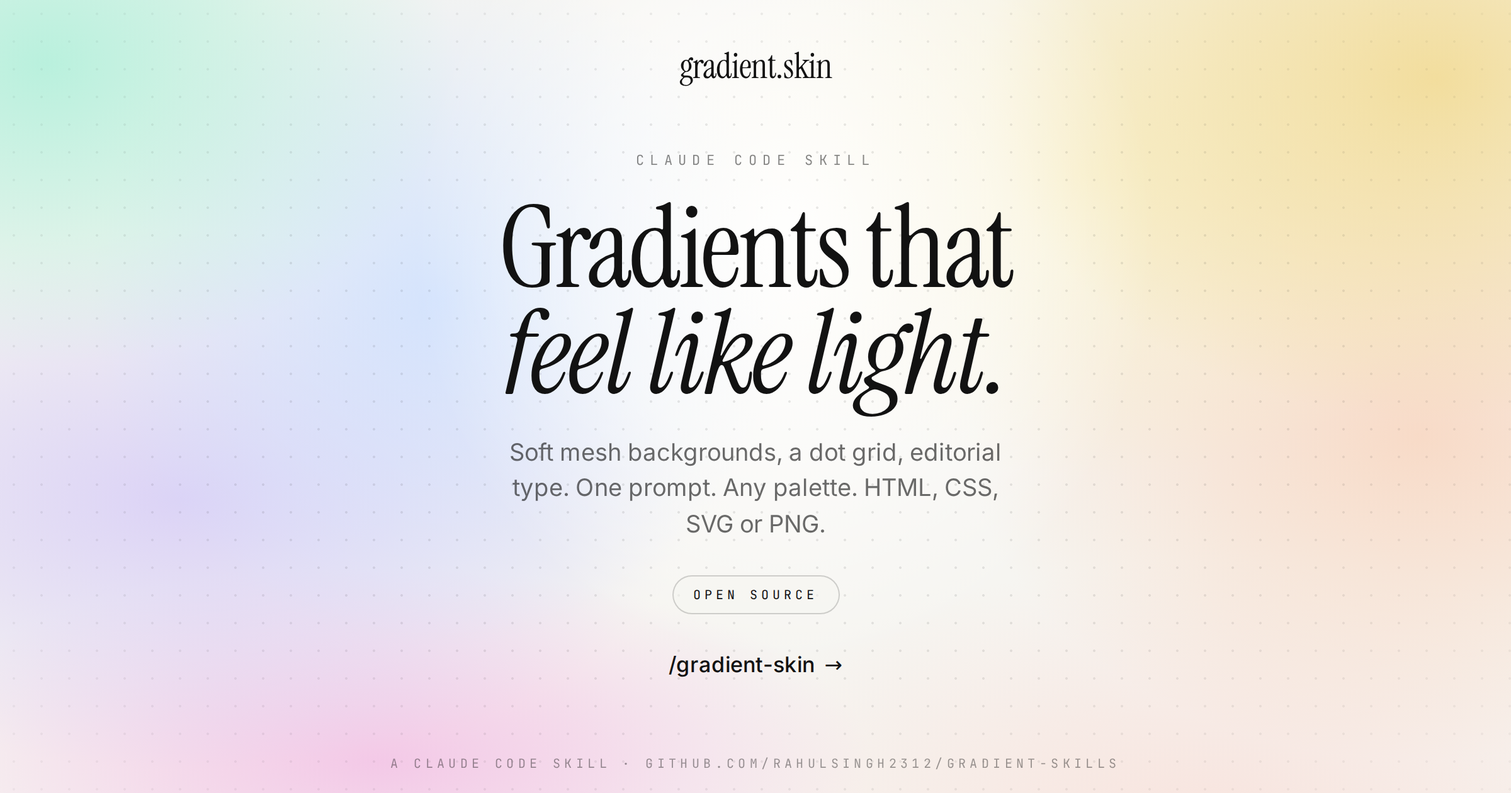
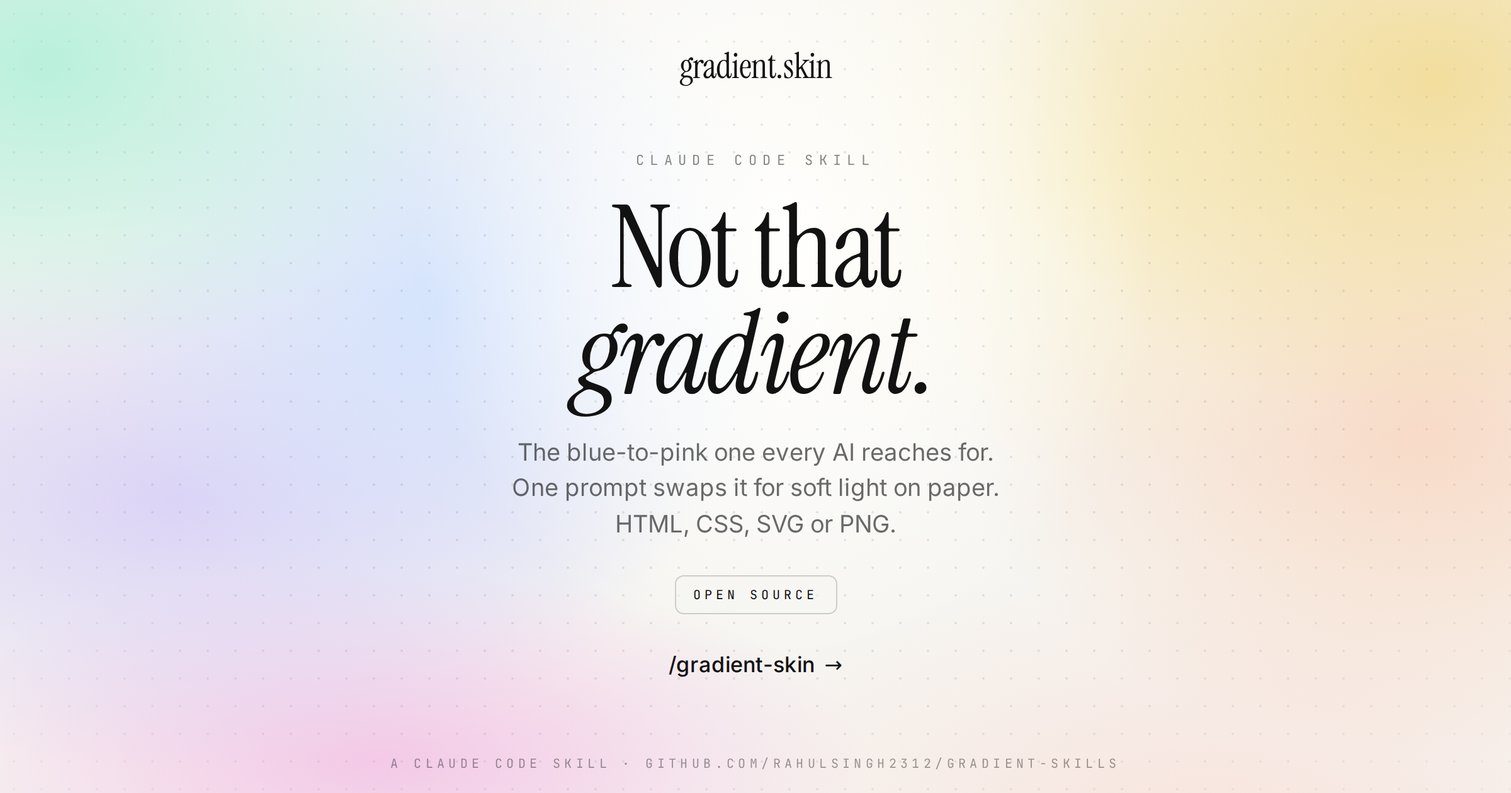
New tagline, site-hosted installer, softer badges, phone headline fix
- Headline is now "Not that gradient." everywhere: site, hero images, thumbnails, article
- curl -fsSL gradient.skin/install | sh installs the skill; /skill serves the packaged file
- Badges and pills use 7-10px corners instead of full pills
- Mobile headline capped so the bold side fits two lines
- Step 2 prompt wraps onto multiple lines; workflow deploys production from main

Claude-Session: https://claude.ai/code/session_01Pj2DqLmp4zxdSxdQUmTHv8

Changed region(s): [[0.3125, 0.2476, 0.6875, 0.5262], [0.3438, 0.5571, 0.6562, 0.681]]

diff --git a/site/index.html b/site/index.html
@@ -1,8 +1,8 @@
 <!doctype html>
 <html lang="en"><head><meta charset="utf-8"><meta name="viewport" content="width=device-width,initial-scale=1">
-<title>gradient.skin — gradients that feel like light</title>
+<title>gradient.skin — not that gradient</title>
 <meta name="description" content="A Claude Code skill that generates soft pastel mesh gradient heroes: HTML, CSS, SVG or PNG from one prompt.">
-<meta property="og:title" content="gradient.skin — gradients that feel like light"><meta property="og:description" content="A Claude Code skill. One prompt → hero page, CSS, SVG or PNG."><meta property="og:image" content="og.png"><meta name="twitter:card" content="summary_large_image">
+<meta property="og:title" content="gradient.skin — not that gradient"><meta property="og:description" content="The blue-to-pink gradient every AI reaches for, replaced in one prompt. A Claude Code skill."><meta property="og:image" content="og.png"><meta name="twitter:card" content="summary_large_image">
 <link rel="preconnect" href="https://fonts.googleapis.com"><link rel="preconnect" href="https://fonts.gstatic.com" crossorigin>
 <link href="https://fonts.googleapis.com/css2?family=Instrument+Serif:ital@0;1&family=Inter:wght@400;500;700&family=JetBrains+Mono:wght@400;500&display=swap" rel="stylesheet">
 <style>
@@ -64,7 +64,7 @@ h1{font-size:clamp(56px,7.6vw,128px);line-height:.92;letter-spacing:-.025em;marg
 .ugly h1{font-weight:700;letter-spacing:-.045em;text-shadow:0 2px 18px rgba(0,0,0,.25)} .ugly h1 em{font-style:normal}
 .sub{font-size:19px;line-height:1.5;opacity:.62;max-width:36ch;margin:0 0 30px;min-height:calc(3 * 1.5em)}
 .ugly .sub{opacity:.92}
-.cmd{display:inline-flex;align-items:center;gap:14px;max-width:100%;box-sizing:border-box;height:44px;font-size:14px;padding:0 18px;border-radius:999px;border:1px solid rgba(0,0,0,.14);background:rgba(255,255,255,.55);backdrop-filter:blur(6px);cursor:pointer;color:inherit;font-family:inherit}
+.cmd{display:inline-flex;align-items:center;gap:14px;max-width:100%;box-sizing:border-box;height:44px;font-size:14px;padding:0 18px;border-radius:10px;border:1px solid rgba(0,0,0,.14);background:rgba(255,255,255,.55);backdrop-filter:blur(6px);cursor:pointer;color:inherit;font-family:inherit}
 .cmd span{min-width:0;overflow:hidden;text-overflow:ellipsis;white-space:nowrap}
 .cmd small{flex-shrink:0;white-space:nowrap;opacity:.5;font-size:11px;letter-spacing:.2em;text-transform:uppercase}
 .cmd:hover{background:rgba(255,255,255,.8)}
@@ -72,7 +72,7 @@ h1{font-size:clamp(56px,7.6vw,128px);line-height:.92;letter-spacing:-.025em;marg
 .links{margin-top:28px;font-size:15px;font-weight:500;height:28px} .links a{color:inherit;text-decoration:none;margin:6px 12px;display:inline-block;white-space:nowrap} .links a:hover{text-decoration:underline}
 .foot{position:absolute;bottom:22px;left:0;right:0;text-align:center;font-size:10px;letter-spacing:.32em;text-transform:uppercase;opacity:.42}
 .ugly .foot{opacity:.8}
-.tag{position:absolute;z-index:4;top:22px;font-size:10px;letter-spacing:.32em;text-transform:uppercase;padding:7px 12px;border-radius:999px;pointer-events:none;transition:opacity .3s}
+.tag{position:absolute;z-index:4;top:22px;font-size:10px;letter-spacing:.32em;text-transform:uppercase;padding:7px 12px;border-radius:7px;pointer-events:none;transition:opacity .3s}
 .tag b{font-weight:inherit} .tag.l{left:22px;background:rgba(0,0,0,.28);color:#fff} .tag.r{right:22px;background:rgba(255,255,255,.6);color:#121212;backdrop-filter:blur(6px)}
 .hero[data-cut="0"] .tag.l{opacity:0} .hero[data-cut="100"] .tag.r{opacity:0}
 .grip{position:absolute;z-index:5;top:0;bottom:0;left:clamp(44px,var(--cut,92%),calc(100% - 44px));width:64px;transform:translateX(-50%);cursor:ew-resize;touch-action:pan-y;outline:none}
@@ -80,7 +80,7 @@ h1{font-size:clamp(56px,7.6vw,128px);line-height:.92;letter-spacing:-.025em;marg
 .grip i{position:absolute;top:50%;left:50%;transform:translate(-50%,-50%);width:52px;height:52px;border-radius:50%;background:#121212;color:#fff;display:flex;align-items:center;justify-content:center;font:500 18px "JetBrains Mono",monospace;letter-spacing:-.05em;box-shadow:0 10px 30px rgba(0,0,0,.3);font-style:normal;transition:transform .2s}
 .grip:hover i,.grip:focus-visible i{transform:translate(-50%,-50%) scale(1.08)}
 .grip:focus-visible i{box-shadow:0 0 0 3px #fff,0 10px 30px rgba(0,0,0,.3)}
-.grip b{position:absolute;left:50%;top:calc(50% + 40px);transform:translateX(-50%);font:500 10px "JetBrains Mono",monospace;letter-spacing:.3em;text-transform:uppercase;color:#121212;background:rgba(255,255,255,.7);padding:5px 9px;border-radius:999px;white-space:nowrap;opacity:0;transition:opacity .3s}
+.grip b{position:absolute;left:50%;top:calc(50% + 40px);transform:translateX(-50%);font:500 10px "JetBrains Mono",monospace;letter-spacing:.3em;text-transform:uppercase;color:#121212;background:rgba(255,255,255,.7);padding:5px 9px;border-radius:6px;white-space:nowrap;opacity:0;transition:opacity .3s}
 .hero.settled .grip b{opacity:1}
 @media (prefers-reduced-motion:reduce){.grip i{transition:none}}
 
@@ -266,10 +266,10 @@ h2{font-size:clamp(36px,4.5vw,56px);letter-spacing:-.02em;line-height:1;margin:0
 
 .sk-ink{color:#f2f0ea}
 .steps{display:grid;grid-template-columns:repeat(auto-fit,minmax(280px,1fr));gap:32px} .step h3{font-size:28px;margin:0 0 8px;letter-spacing:-.02em} .step p{opacity:.62;line-height:1.55;margin:0 0 12px}
-pre{background:#121212;color:#f2f0ea;border-radius:12px;padding:18px 20px;font-size:13px;line-height:1.9;overflow-x:auto;margin:0;white-space:pre}
+pre{background:#121212;color:#f2f0ea;border-radius:12px;padding:18px 20px;font-size:13px;line-height:1.9;overflow-x:auto;margin:0;white-space:pre} pre.soft{white-space:pre-wrap}
 footer{text-align:center;padding:48px 6vw 64px;font-size:12px;opacity:.5} footer a{color:inherit}
 @media (max-width:760px){
-  h1{font-size:clamp(48px,14vw,96px)} .wrap{padding:100px 6vw 80px}
+  h1{font-size:clamp(38px,11.5vw,96px)} .wrap{padding:100px 6vw 80px} .sub{font-size:17px;max-width:34ch}
   .cmd{font-size:12px;padding:0 14px;gap:10px}
   section.plain{padding:72px 6vw}
   .grid{grid-template-columns:1fr;gap:16px} .tile{aspect-ratio:16/10;border-radius:14px}
@@ -282,18 +282,18 @@ footer{text-align:center;padding:48px 6vw 64px;font-size:12px;opacity:.5} footer
   <div class="layer ugly"><div class="wrap">
     <div class="wordmark">gradient.skin</div>
     <div class="eyebrow mono">Claude Code skill</div>
-    <h1>Gradients that<br><em>feel like light.</em></h1>
-    <p class="sub">Soft mesh backgrounds, a dot grid, editorial type. One prompt. Any palette. HTML, CSS, SVG or PNG.</p>
-    <button class="cmd mono" data-copy><span>git clone rahulsingh2312/gradient-skills</span><small>copy install</small></button>
+    <h1>Not that<br><em>gradient.</em></h1>
+    <p class="sub">The blue-to-pink one every AI reaches for. One prompt swaps it for soft light on paper. HTML, CSS, SVG or PNG.</p>
+    <button class="cmd mono" data-copy><span>curl -fsSL gradient.skin/install | sh</span><small>copy</small></button>
     <div class="links"><a href="https://github.com/rahulsingh2312/gradient-skills">GitHub →</a><a href="#palettes">Palettes →</a></div>
     <div class="foot mono">Open source · MIT · gradient.skin</div>
   </div></div>
   <div class="layer good"><section class="skin"><div class="skin-blobs" aria-hidden="true"><div class="skin-blob" style="left:-16.2%;top:-24.3%;width:61.5%;height:85.5%;background:radial-gradient(closest-side, rgba(182,240,220,0.95) 0%, rgba(182,240,220,0.52) 45%, rgba(182,240,220,0.00) 100%);--d:32s;--delay:-4s;--x1:3.4%;--y1:6.3%;--x2:-5.6%;--y2:7.7%;--x3:-7.7%;--y3:-7.6%"></div><div class="skin-blob" style="left:8.3%;top:-8.1%;width:51.9%;height:97.4%;background:radial-gradient(closest-side, rgba(207,225,255,0.85) 0%, rgba(207,225,255,0.47) 45%, rgba(207,225,255,0.00) 100%);--d:27s;--delay:-20s;--x1:2.8%;--y1:-2.6%;--x2:7.6%;--y2:-7.6%;--x3:2.9%;--y3:3.1%"></div><div class="skin-blob" style="left:-17.1%;top:22.4%;width:75.9%;height:75.5%;background:radial-gradient(closest-side, rgba(215,205,247,0.85) 0%, rgba(215,205,247,0.47) 45%, rgba(215,205,247,0.00) 100%);--d:31s;--delay:-8s;--x1:-6.7%;--y1:7.6%;--x2:4.4%;--y2:4.3%;--x3:-5.2%;--y3:3.1%"></div><div class="skin-blob" style="left:-5.0%;top:57.6%;width:72.5%;height:54.4%;background:radial-gradient(closest-side, rgba(243,196,230,0.90) 0%, rgba(243,196,230,0.50) 45%, rgba(243,196,230,0.00) 100%);--d:39s;--delay:-28s;--x1:-7.0%;--y1:-3.7%;--x2:7.3%;--y2:1.7%;--x3:3.0%;--y3:-5.7%"></div><div class="skin-blob" style="left:50.8%;top:-28.4%;width:67.3%;height:95.6%;background:radial-gradient(closest-side, rgba(242,219,149,0.90) 0%, rgba(242,219,149,0.50) 45%, rgba(242,219,149,0.00) 100%);--d:30s;--delay:-18s;--x1:8.2%;--y1:-3.0%;--x2:0.1%;--y2:2.0%;--x3:0.6%;--y3:-1.7%"></div><div class="skin-blob" style="left:33.7%;top:-14.2%;width:65.5%;height:85.3%;background:radial-gradient(closest-side, rgba(249,239,198,0.80) 0%, rgba(249,239,198,0.44) 45%, rgba(249,239,198,0.00) 100%);--d:43s;--delay:-14s;--x1:6.2%;--y1:-6.7%;--x2:5.9%;--y2:-7.1%;--x3:-4.4%;--y3:-1.0%"></div><div class="skin-blob" style="left:49.7%;top:8.7%;width:67.5%;height:90.7%;background:radial-gradient(closest-side, rgba(248,214,192,0.85) 0%, rgba(248,214,192,0.47) 45%, rgba(248,214,192,0.00) 100%);--d:37s;--delay:-1s;--x1:-3.1%;--y1:-1.5%;--x2:7.9%;--y2:-1.6%;--x3:-1.3%;--y3:0.1%"></div><div class="skin-blob" style="left:34.5%;top:53.6%;width:76.9%;height:74.6%;background:radial-gradient(closest-side, rgba(248,226,220,0.90) 0%, rgba(248,226,220,0.50) 45%, rgba(248,226,220,0.00) 100%);--d:33s;--delay:-4s;--x1:6.0%;--y1:3.0%;--x2:7.9%;--y2:8.7%;--x3:-2.3%;--y3:-7.3%"></div><div class="skin-leak" style="left:25.7%;top:-22.2%;width:51.7%;height:114.0%;background:radial-gradient(closest-side, rgba(255,255,255,0.95) 0%, rgba(255,255,255,0.52) 45%, rgba(255,255,255,0.00) 100%);--d:40s;--delay:-4s;--x1:2.7%;--y1:-6.7%;--x2:5.0%;--y2:5.7%;--x3:-6.5%;--y3:2.6%"></div></div><div class="wrap">
     <div class="wordmark serif">gradient.skin</div>
     <div class="eyebrow mono">Claude Code skill</div>
-    <h1 class="serif">Gradients that<br><em>feel like light.</em></h1>
-    <p class="sub">Soft mesh backgrounds, a dot grid, editorial type. One prompt. Any palette. HTML, CSS, SVG or PNG.</p>
-    <button class="cmd mono" data-copy><span>git clone rahulsingh2312/gradient-skills</span><small>copy install</small></button>
+    <h1 class="serif">Not that<br><em>gradient.</em></h1>
+    <p class="sub">The blue-to-pink one every AI reaches for. One prompt swaps it for soft light on paper. HTML, CSS, SVG or PNG.</p>
+    <button class="cmd mono" data-copy><span>curl -fsSL gradient.skin/install | sh</span><small>copy</small></button>
     <div class="links"><a href="https://github.com/rahulsingh2312/gradient-skills">GitHub →</a><a href="#palettes">Palettes →</a></div>
     <div class="foot mono">Open source · MIT · gradient.skin</div>
   </div></section></div>
@@ -309,11 +309,12 @@ footer{text-align:center;padding:48px 6vw 64px;font-size:12px;opacity:.5} footer
 
 <section class="plain" id="install">
   <h2 class="serif">Three steps.</h2>
-  <p class="lede">A folder with a SKILL.md and a Python script. No packages, no build.</p>
+  <p class="lede">A folder with a SKILL.md and a Python script. No packages, no build. Prefer files? <a href="/skill" style="color:inherit">Download the .skill</a> or grab it on <a href="https://github.com/rahulsingh2312/gradient-skills" style="color:inherit">GitHub</a>.</p>
   <div class="steps">
-    <div class="step"><h3 class="serif">1. Install</h3><p>Drop the skill in your Claude Code skills folder.</p><pre>git clone https://github.com/rahulsingh2312/gradient-skills
-cp -r gradient-skills/gradient-skin ~/.claude/skills/gradient-skin</pre></div>
-    <div class="step"><h3 class="serif">2. Ask</h3><p>Describe the hero. Mention a palette, a brand colour, or nothing.</p><pre>/gradient-skin launch hero for Acme, brand #5B4BFF, animated, export OG + X images</pre></div>
+    <div class="step"><h3 class="serif">1. Install</h3><p>One line. Puts the skill in your Claude Code skills folder.</p><pre>curl -fsSL gradient.skin/install | sh</pre></div>
+    <div class="step"><h3 class="serif">2. Ask</h3><p>Describe the hero. Mention a palette, a brand colour, or nothing.</p><pre class="soft">/gradient-skin launch hero for Acme,
+brand #5B4BFF, animated,
+export OG + X images</pre></div>
     <div class="step"><h3 class="serif">3. Ship</h3><p>Get a responsive page, a CSS block for your codebase, an SVG, or PNGs.</p><pre>hero.html
 skin.css
 og.png
@@ -341,7 +342,7 @@ hero-x.png</pre></div>
   grip.addEventListener('pointerup',function(){ dragging=false; }); grip.addEventListener('pointercancel',function(){ dragging=false; });
   grip.addEventListener('keydown',function(e){ var d=e.key==='ArrowLeft'?-4:e.key==='ArrowRight'?4:0; if(d){ touched=true; cancelAnimationFrame(raf); set(cut+d); e.preventDefault(); } });
   // copy buttons (both layers)
-  document.querySelectorAll('[data-copy]').forEach(function(b){ b.addEventListener('click',function(){ navigator.clipboard.writeText('git clone https://github.com/rahulsingh2312/gradient-skills && cp -r gradient-skills/gradient-skin ~/.claude/skills/gradient-skin'); document.querySelectorAll('[data-copy] small').forEach(function(s){s.textContent='copied';}); }); });
+  document.querySelectorAll('[data-copy]').forEach(function(b){ b.addEventListener('click',function(){ navigator.clipboard.writeText('curl -fsSL gradient.skin/install | sh'); document.querySelectorAll('[data-copy] small').forEach(function(s){s.textContent='copied';}); }); });
 })();
 </script>
 </body></html>

diff --git a/site/build.py b/site/build.py
@@ -28,9 +28,9 @@ tiles = "".join(f'<a class="tile sk-{p}" href="#install"><span class="mono">--pa
 
 html = f'''<!doctype html>
 <html lang="en"><head><meta charset="utf-8"><meta name="viewport" content="width=device-width,initial-scale=1">
-<title>gradient.skin — gradients that feel like light</title>
+<title>gradient.skin — not that gradient</title>
 <meta name="description" content="A Claude Code skill that generates soft pastel mesh gradient heroes: HTML, CSS, SVG or PNG from one prompt.">
-<meta property="og:title" content="gradient.skin — gradients that feel like light"><meta property="og:description" content="A Claude Code skill. One prompt → hero page, CSS, SVG or PNG."><meta property="og:image" content="og.png"><meta name="twitter:card" content="summary_large_image">
+<meta property="og:title" content="gradient.skin — not that gradient"><meta property="og:description" content="The blue-to-pink gradient every AI reaches for, replaced in one prompt. A Claude Code skill."><meta property="og:image" content="og.png"><meta name="twitter:card" content="summary_large_image">
 <link rel="preconnect" href="https://fonts.googleapis.com"><link rel="preconnect" href="https://fonts.gstatic.com" crossorigin>
 <link href="https://fonts.googleapis.com/css2?family=Instrument+Serif:ital@0;1&family=Inter:wght@400;500;700&family=JetBrains+Mono:wght@400;500&display=swap" rel="stylesheet">
 <style>
@@ -53,7 +53,7 @@ h1{{font-size:clamp(56px,7.6vw,128px);line-height:.92;letter-spacing:-.025em;mar
 .ugly h1{{font-weight:700;letter-spacing:-.045em;text-shadow:0 2px 18px rgba(0,0,0,.25)}} .ugly h1 em{{font-style:normal}}
 .sub{{font-size:19px;line-height:1.5;opacity:.62;max-width:36ch;margin:0 0 30px;min-height:calc(3 * 1.5em)}}
 .ugly .sub{{opacity:.92}}
-.cmd{{display:inline-flex;align-items:center;gap:14px;max-width:100%;box-sizing:border-box;height:44px;font-size:14px;padding:0 18px;border-radius:999px;border:1px solid rgba(0,0,0,.14);background:rgba(255,255,255,.55);backdrop-filter:blur(6px);cursor:pointer;color:inherit;font-family:inherit}}
+.cmd{{display:inline-flex;align-items:center;gap:14px;max-width:100%;box-sizing:border-box;height:44px;font-size:14px;padding:0 18px;border-radius:10px;border:1px solid rgba(0,0,0,.14);background:rgba(255,255,255,.55);backdrop-filter:blur(6px);cursor:pointer;color:inherit;font-family:inherit}}
 .cmd span{{min-width:0;overflow:hidden;text-overflow:ellipsis;white-space:nowrap}}
 .cmd small{{flex-shrink:0;white-space:nowrap;opacity:.5;font-size:11px;letter-spacing:.2em;text-transform:uppercase}}
 .cmd:hover{{background:rgba(255,255,255,.8)}}
@@ -61,7 +61,7 @@ h1{{font-size:clamp(56px,7.6vw,128px);line-height:.92;letter-spacing:-.025em;mar
 .links{{margin-top:28px;font-size:15px;font-weight:500;height:28px}} .links a{{color:inherit;text-decoration:none;margin:6px 12px;display:inline-block;white-space:nowrap}} .links a:hover{{text-decoration:underline}}
 .foot{{position:absolute;bottom:22px;left:0;right:0;text-align:center;font-size:10px;letter-spacing:.32em;text-transform:uppercase;opacity:.42}}
 .ugly .foot{{opacity:.8}}
-.tag{{position:absolute;z-index:4;top:22px;font-size:10px;letter-spacing:.32em;text-transform:uppercase;padding:7px 12px;border-radius:999px;pointer-events:none;transition:opacity .3s}}
+.tag{{position:absolute;z-index:4;top:22px;font-size:10px;letter-spacing:.32em;text-transform:uppercase;padding:7px 12px;border-radius:7px;pointer-events:none;transition:opacity .3s}}
 .tag b{{font-weight:inherit}} .tag.l{{left:22px;background:rgba(0,0,0,.28);color:#fff}} .tag.r{{right:22px;background:rgba(255,255,255,.6);color:#121212;backdrop-filter:blur(6px)}}
 .hero[data-cut="0"] .tag.l{{opacity:0}} .hero[data-cut="100"] .tag.r{{opacity:0}}
 .grip{{position:absolute;z-index:5;top:0;bottom:0;left:clamp(44px,var(--cut,92%),calc(100% - 44px));width:64px;transform:translateX(-50%);cursor:ew-resize;touch-action:pan-y;outline:none}}
@@ -69,7 +69,7 @@ h1{{font-size:clamp(56px,7.6vw,128px);line-height:.92;letter-spacing:-.025em;mar
 .grip i{{position:absolute;top:50%;left:50%;transform:translate(-50%,-50%);width:52px;height:52px;border-radius:50%;background:#121212;color:#fff;display:flex;align-items:center;justify-content:center;font:500 18px "JetBrains Mono",monospace;letter-spacing:-.05em;box-shadow:0 10px 30px rgba(0,0,0,.3);font-style:normal;transition:transform .2s}}
 .grip:hover i,.grip:focus-visible i{{transform:translate(-50%,-50%) scale(1.08)}}
 .grip:focus-visible i{{box-shadow:0 0 0 3px #fff,0 10px 30px rgba(0,0,0,.3)}}
-.grip b{{position:absolute;left:50%;top:calc(50% + 40px);transform:translateX(-50%);font:500 10px "JetBrains Mono",monospace;letter-spacing:.3em;text-transform:uppercase;color:#121212;background:rgba(255,255,255,.7);padding:5px 9px;border-radius:999px;white-space:nowrap;opacity:0;transition:opacity .3s}}
+.grip b{{position:absolute;left:50%;top:calc(50% + 40px);transform:translateX(-50%);font:500 10px "JetBrains Mono",monospace;letter-spacing:.3em;text-transform:uppercase;color:#121212;background:rgba(255,255,255,.7);padding:5px 9px;border-radius:6px;white-space:nowrap;opacity:0;transition:opacity .3s}}
 .hero.settled .grip b{{opacity:1}}
 @media (prefers-reduced-motion:reduce){{.grip i{{transition:none}}}}
 
@@ -80,10 +80,10 @@ h2{{font-size:clamp(36px,4.5vw,56px);letter-spacing:-.02em;line-height:1;margin:
 {tiles_css}
 .sk-ink{{color:#f2f0ea}}
 .steps{{display:grid;grid-template-columns:repeat(auto-fit,minmax(280px,1fr));gap:32px}} .step h3{{font-size:28px;margin:0 0 8px;letter-spacing:-.02em}} .step p{{opacity:.62;line-height:1.55;margin:0 0 12px}}
-pre{{background:#121212;color:#f2f0ea;border-radius:12px;padding:18px 20px;font-size:13px;line-height:1.9;overflow-x:auto;margin:0;white-space:pre}}
+pre{{background:#121212;color:#f2f0ea;border-radius:12px;padding:18px 20px;font-size:13px;line-height:1.9;overflow-x:auto;margin:0;white-space:pre}} pre.soft{{white-space:pre-wrap}}
 footer{{text-align:center;padding:48px 6vw 64px;font-size:12px;opacity:.5}} footer a{{color:inherit}}
 @media (max-width:760px){{
-  h1{{font-size:clamp(48px,14vw,96px)}} .wrap{{padding:100px 6vw 80px}}
+  h1{{font-size:clamp(38px,11.5vw,96px)}} .wrap{{padding:100px 6vw 80px}} .sub{{font-size:17px;max-width:34ch}}
   .cmd{{font-size:12px;padding:0 14px;gap:10px}}
   section.plain{{padding:72px 6vw}}
   .grid{{grid-template-columns:1fr;gap:16px}} .tile{{aspect-ratio:16/10;border-radius:14px}}
@@ -96,18 +96,18 @@ footer{{text-align:center;padding:48px 6vw 64px;font-size:12px;opacity:.5}} foot
   <div class="layer ugly"><div class="wrap">
     <div class="wordmark">gradient.skin</div>
     <div class="eyebrow mono">Claude Code skill</div>
-    <h1>Gradients that<br><em>feel like light.</em></h1>
-    <p class="sub">Soft mesh backgrounds, a dot grid, editorial type. One prompt. Any palette. HTML, CSS, SVG or PNG.</p>
-    <button class="cmd mono" data-copy><span>git clone rahulsingh2312/gradient-skills</span><small>copy install</small></button>
+    <h1>Not that<br><em>gradient.</em></h1>
+    <p class="sub">The blue-to-pink one every AI reaches for. One prompt swaps it for soft light on paper. HTML, CSS, SVG or PNG.</p>
+    <button class="cmd mono" data-copy><span>curl -fsSL gradient.skin/install | sh</span><small>copy</small></button>
     <div class="links"><a href="{REPO}">GitHub →</a><a href="#palettes">Palettes →</a></div>
     <div class="foot mono">Open source · MIT · gradient.skin</div>
   </div></div>
   <div class="layer good"><section class="skin">{hero_blobs}<div class="wrap">
     <div class="wordmark serif">gradient.skin</div>
     <div class="eyebrow mono">Claude Code skill</div>
-    <h1 class="serif">Gradients that<br><em>feel like light.</em></h1>
-    <p class="sub">Soft mesh backgrounds, a dot grid, editorial type. One prompt. Any palette. HTML, CSS, SVG or PNG.</p>
-    <button class="cmd mono" data-copy><span>git clone rahulsingh2312/gradient-skills</span><small>copy install</small></button>
+    <h1 class="serif">Not that<br><em>gradient.</em></h1>
+    <p class="sub">The blue-to-pink one every AI reaches for. One prompt swaps it for soft light on paper. HTML, CSS, SVG or PNG.</p>
+    <button class="cmd mono" data-copy><span>curl -fsSL gradient.skin/install | sh</span><small>copy</small></button>
     <div class="links"><a href="{REPO}">GitHub →</a><a href="#palettes">Palettes →</a></div>
     <div class="foot mono">Open source · MIT · gradient.skin</div>
   </div></section></div>
@@ -123,11 +123,12 @@ footer{{text-align:center;padding:48px 6vw 64px;font-size:12px;opacity:.5}} foot
 
 <section class="plain" id="install">
   <h2 class="serif">Three steps.</h2>
-  <p class="lede">A folder with a SKILL.md and a Python script. No packages, no build.</p>
+  <p class="lede">A folder with a SKILL.md and a Python script. No packages, no build. Prefer files? <a href="/skill" style="color:inherit">Download the .skill</a> or grab it on <a href="{REPO}" style="color:inherit">GitHub</a>.</p>
   <div class="steps">
-    <div class="step"><h3 class="serif">1. Install</h3><p>Drop the skill in your Claude Code skills folder.</p><pre>git clone {REPO}
-cp -r gradient-skills/gradient-skin ~/.claude/skills/gradient-skin</pre></div>
-    <div class="step"><h3 class="serif">2. Ask</h3><p>Describe the hero. Mention a palette, a brand colour, or nothing.</p><pre>/gradient-skin launch hero for Acme, brand #5B4BFF, animated, export OG + X images</pre></div>
+    <div class="step"><h3 class="serif">1. Install</h3><p>One line. Puts the skill in your Claude Code skills folder.</p><pre>curl -fsSL gradient.skin/install | sh</pre></div>
+    <div class="step"><h3 class="serif">2. Ask</h3><p>Describe the hero. Mention a palette, a brand colour, or nothing.</p><pre class="soft">/gradient-skin launch hero for Acme,
+brand #5B4BFF, animated,
+export OG + X images</pre></div>
     <div class="step"><h3 class="serif">3. Ship</h3><p>Get a responsive page, a CSS block for your codebase, an SVG, or PNGs.</p><pre>hero.html
 skin.css
 og.png
@@ -155,9 +156,12 @@ hero-x.png</pre></div>
   grip.addEventListener('pointerup',function(){{ dragging=false; }}); grip.addEventListener('pointercancel',function(){{ dragging=false; }});
   grip.addEventListener('keydown',function(e){{ var d=e.key==='ArrowLeft'?-4:e.key==='ArrowRight'?4:0; if(d){{ touched=true; cancelAnimationFrame(raf); set(cut+d); e.preventDefault(); }} }});
   // copy buttons (both layers)
-  document.querySelectorAll('[data-copy]').forEach(function(b){{ b.addEventListener('click',function(){{ navigator.clipboard.writeText('git clone {REPO} && cp -r gradient-skills/gradient-skin ~/.claude/skills/gradient-skin'); document.querySelectorAll('[data-copy] small').forEach(function(s){{s.textContent='copied';}}); }}); }});
+  document.querySelectorAll('[data-copy]').forEach(function(b){{ b.addEventListener('click',function(){{ navigator.clipboard.writeText('curl -fsSL gradient.skin/install | sh'); document.querySelectorAll('[data-copy] small').forEach(function(s){{s.textContent='copied';}}); }}); }});
 }})();
 </script>
 </body></html>'''
 open(os.path.join(HERE, "index.html"), "w").write(html)
+import shutil
+src = os.path.join(HERE, "..", "gradient-skin.skill")
+if os.path.exists(src): shutil.copy(src, os.path.join(HERE, "gradient-skin.skill"))
 print("wrote site/index.html", len(html), "bytes")

diff --git a/gradient-skin/scripts/skin.py b/gradient-skin/scripts/skin.py
@@ -272,7 +272,7 @@ TYPE_CSS = """
 .skin-h1 { font-size: clamp(56px, 7.6vw, 128px); line-height:.92; letter-spacing:-.025em; margin:0 0 22px; }
 .skin-h1 em { font-style:italic; letter-spacing:-.02em; }
 .skin-sub { font-size: 19px; line-height:1.5; opacity:.62; max-width: 34ch; margin:0 0 26px; }
-.skin-badge { display:inline-block; font-size:10px; letter-spacing:.3em; text-transform:uppercase; padding:8px 16px; border-radius:999px; border:1px solid color-mix(in srgb, currentColor 18%, transparent); background: color-mix(in srgb, var(--skin-base) 55%, transparent); margin-bottom:30px; }
+.skin-badge { display:inline-block; font-size:10px; letter-spacing:.3em; text-transform:uppercase; padding:8px 14px; border-radius:7px; border:1px solid color-mix(in srgb, currentColor 18%, transparent); background: color-mix(in srgb, var(--skin-base) 55%, transparent); margin-bottom:30px; }
 .skin-cta { font-size:17px; font-weight:500; text-decoration:none; color:inherit; }
 .skin-cta span { display:inline-block; margin-left:.45em; transition:transform .2s; }
 .skin-cta:hover span { transform:translateX(3px); }

diff --git a/launch/article.md b/launch/article.md
@@ -7,11 +7,11 @@
 
 ## Title
 
-I turned the internet's favourite gradient into a Claude Code skill
+Not that gradient.
 
 ## Subtitle
 
-The soft pastel "light on paper" look from every good landing page this year, reverse-engineered, written down, and made into one prompt. Free, open source.
+Every AI reaches for the same blue-to-pink. I reverse-engineered the soft "light on paper" look the good landing pages use, wrote down why it works, and made it one prompt. Free, open source.
 
 ---
 
@@ -62,11 +62,10 @@ Seven palettes are built in. `dawn` is the reference look. `sorbet`, `glacier`, 
 
 ## What it looks like to use
 
-Install is two lines:
+Install is one line:
 
 ```
-git clone https://github.com/rahulsingh2312/gradient-skills
-cp -r gradient-skills/gradient-skin ~/.claude/skills/gradient-skin
+curl -fsSL gradient.skin/install | sh
 ```
 
 Then in Claude Code:

diff --git a/README.md b/README.md
@@ -15,12 +15,12 @@ One prompt gives you HTML, CSS, SVG, or PNG.
 ### Install
 
 ```bash
-git clone https://github.com/rahulsingh2312/gradient-skills
-cp -r gradient-skills/gradient-skin ~/.claude/skills/gradient-skin        # personal
-# or: cp -r gradient-skills/gradient-skin .claude/skills/gradient-skin     # per project
+curl -fsSL gradient.skin/install | sh                 # → ~/.claude/skills/gradient-skin
+curl -fsSL gradient.skin/install | sh -s -- --project  # → ./.claude/skills/gradient-skin
 ```
 
-Or drop `gradient-skin.skill` from this repo into Claude (the file card shows a **Save skill** button).
+Or `gradient.skin/skill` downloads the packaged `.skill` file (drop it into Claude, the card shows a
+**Save skill** button). From source: clone this repo and copy `gradient-skin/` into `~/.claude/skills/`.
 
 Then in Claude Code:
 

diff --git a/gradient-skin/references/recipe.md b/gradient-skin/references/recipe.md
@@ -85,7 +85,7 @@ h1.display { font-size: clamp(56px, 7.6vw, 128px); line-height: .92; letter-spac
 h1.display em { font-style: italic; }
 .eyebrow { font-size: 11px; letter-spacing: .38em; text-transform: uppercase; opacity: .5; }
 .pill { font-size: 10px; letter-spacing: .3em; text-transform: uppercase; padding: 8px 16px;
-        border-radius: 999px; border: 1px solid rgba(0,0,0,.15); background: rgba(255,255,255,.5); }
+        border-radius: 7px; border: 1px solid rgba(0,0,0,.15); background: rgba(255,255,255,.5); }
 ```
 Google Fonts link: `family=Instrument+Serif:ital@0;1&family=Inter:wght@400;500&family=JetBrains+Mono:wght@400;500`.
 Alternatives with the same feel: Fraunces (softer), Newsreader (more bookish), Playfair Display (more fashion).

diff --git a/launch/x-posts.md b/launch/x-posts.md
@@ -56,7 +56,7 @@ the image does the selling. Lowercase is fine on X; the serif in the image carri
 
 > install:
 > ```
-> git clone <repo> && cp -r gradient-skills/gradient-skin ~/.claude/skills/gradient-skin
+> curl -fsSL gradient.skin/install | sh
 > ```
 > then in Claude Code: `/gradient-skin make me a hero for <your product>`
 > png export needs playwright (`npm i -g playwright && npx playwright install chromium`), html/css/svg need nothing
